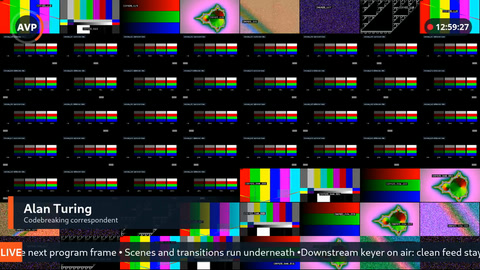
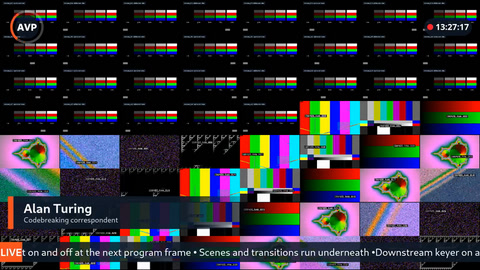
Mixer demo at 1080p30: new instance capture, figures and capacity page
The ten-second demo is recaptured on the running L4 show at 1920x1080p30:
192 inputs (105 NVDEC, 36 browser scene sources, 47 raw NV12, four
browser keys), 256 scenes, 24 outputs. Both encoded outputs were recorded
on the instance before Internet transport and replayed frame by frame in
the real control page. RTP timestamps step by exactly one frame with no
packet gap, the ticker moves four pixels on each of 299 frame pairs, and
the mixer missed no deadline during the capture (capture-20261012.json).

The capacity page is the short one from the code branch: 192 sources at
25 and at 30 fps.

diff --git a/demos/mixer/docs/index.html b/demos/mixer/docs/index.html
@@ -3,7 +3,7 @@
 <head>
   <meta charset="utf-8">
   <meta name="viewport" content="width=device-width,initial-scale=1">
-  <meta name="description" content="192 independent inputs. 256 scenes. 26 outputs. Watch the AVPlumber GPU mixer on one NVIDIA L4: two live viewers, direct cuts and four downstream graphics.">
+  <meta name="description" content="192 independent inputs. 256 scenes. 24 outputs. Watch the AVPlumber GPU mixer on one NVIDIA L4: two live viewers, direct cuts and four downstream graphics.">
   <meta name="theme-color" content="#0a0e12">
   <meta property="og:title" content="192 inputs. One live canvas. · AVPlumber">
   <meta property="og:description" content="The real mixer interface. Two viewers, direct cuts and downstream graphics, captured from a 192-input NVIDIA L4 show.">
@@ -22,14 +22,14 @@
   <main>
     <section class="hero" aria-labelledby="headline">
       <div><p class="eyebrow"><span class="signal"></span> GPU VIDEO MIXER <span class="slash">/</span> OPEN SOURCE</p><h1 id="headline"><span class="accent">192 inputs.</span><br>One live canvas.</h1></div>
-      <div class="hero-aside"><p>Video, browser pages and raw feeds.<br>Preview it. Cut it. Put graphics on air.<br>All on a single NVIDIA L4.</p><div class="spec"><span>1920 × 1080</span><span>25 FPS</span><span>SDR</span></div></div>
+      <div class="hero-aside"><p>Video, browser pages and raw feeds.<br>Preview it. Cut it. Put graphics on air.<br>All on a single NVIDIA L4.</p><div class="spec"><span>1920 × 1080</span><span>30 FPS</span><span>SDR</span></div></div>
     </section>
     <section class="demo" id="demo" aria-labelledby="demo-title">
-      <div class="demo-top"><h2 id="demo-title"><span class="signal red"></span> THE ACTUAL CONTROL SURFACE</h2><span class="capture-label">INSTANCE CAPTURE · 25 FPS <span class="slash">/</span> 09 OCT 2026</span></div>
-      <div class="screen"><video id="reel" controls muted loop playsinline preload="metadata" poster="mixer-demo-poster.jpg" aria-label="Ten-second mixer demo: two viewers, direct cuts through varied scenes and all four downstream keys enabled" aria-describedby="recording-note"><source src="https://github.com/amagimedia/avplumber/releases/download/mixer-demo-media-2026-10/mixer-192-input-demo-local.mp4" type="video/mp4"><a href="https://github.com/amagimedia/avplumber/releases/download/mixer-demo-media-2026-10/mixer-192-input-demo-local.mp4">Download the mixer demo MP4</a>.</video></div>
+      <div class="demo-top"><h2 id="demo-title"><span class="signal red"></span> THE ACTUAL CONTROL SURFACE</h2><span class="capture-label">INSTANCE CAPTURE · 30 FPS <span class="slash">/</span> 12 OCT 2026</span></div>
+      <div class="screen"><video id="reel" controls muted loop playsinline preload="metadata" poster="mixer-demo-poster.jpg" aria-label="Ten-second mixer demo: two viewers, direct cuts through varied scenes and all four downstream keys enabled" aria-describedby="recording-note"><source src="https://github.com/amagimedia/avplumber/releases/download/mixer-demo-media-2026-10/mixer-192-input-demo-1080p30.mp4" type="video/mp4"><a href="https://github.com/amagimedia/avplumber/releases/download/mixer-demo-media-2026-10/mixer-192-input-demo-1080p30.mp4">Download the mixer demo MP4</a>.</video></div>
       <div class="demo-bottom"><div class="feed-labels"><span><i class="pvw"></i> PREVIEW + PROGRAM</span><span><i class="pgm"></i> DIRTY PROGRAM + 4 DSKs</span></div><button id="replay" type="button">Replay 10s <span aria-hidden="true">↻</span></button></div>
     </section>
-    <p class="recording-note" id="recording-note">Recorded directly on the running instance before Internet transport, then replayed in the real UI with the captured state and cuts. Two outputs, four keys and a continuous 25 fps ticker. <a href="https://github.com/amagimedia/avplumber/releases/download/mixer-demo-media-2026-10/mixer-192-input-demo-local.mp4">Download UI demo ↓</a> · <a href="https://github.com/amagimedia/avplumber/releases/download/mixer-demo-media-2026-10/mixer-pgm-instance.mp4">Original full-size Program ↓</a></p>
+    <p class="recording-note" id="recording-note">Recorded directly on the running instance before Internet transport, then replayed in the real UI with the captured state and cuts. Two outputs, four keys and a continuous 30 fps ticker. <a href="https://github.com/amagimedia/avplumber/releases/download/mixer-demo-media-2026-10/mixer-192-input-demo-1080p30.mp4">Download UI demo ↓</a> · <a href="https://github.com/amagimedia/avplumber/releases/download/mixer-demo-media-2026-10/mixer-pgm-instance-1080p30.mp4">Original full-size Program ↓</a></p>
     <section class="scene-section" aria-labelledby="scene-heading">
       <div class="section-label"><h2 id="scene-heading">A different scene. One cut.</h2><span>JUMP INTO THE RECORDING</span></div>
       <div class="scene-strip">
@@ -40,16 +40,16 @@
       </div>
     </section>
     <section class="inside" id="inside" aria-labelledby="inside-title">
-      <div class="section-label"><h2 id="inside-title">Big show. Small footprint.</h2><a href="capture-20261009.json">Captured configuration ↗</a></div>
+      <div class="section-label"><h2 id="inside-title">Big show. Small footprint.</h2><a href="capture-20261012.json">Captured configuration ↗</a></div>
       <div class="numbers">
         <div><strong>192<span>IN</span></strong><p>Independent inputs<br><span>188 scene sources + 4 browser keys</span></p></div>
         <div><strong>256</strong><p>Scenes, ready to take<br><span>Grids, PiP, layers and full screen</span></p></div>
-        <div><strong>26<span>OUT</span></strong><p>Encoded outputs<br><span>Program, clean feed and 24 AUX</span></p></div>
+        <div><strong>24<span>OUT</span></strong><p>Encoded outputs<br><span>Program, clean feed and 22 AUX</span></p></div>
         <div><strong>1<span>GPU</span></strong><p>NVIDIA L4<br><span>16 vCPUs · CUarray decode</span></p></div>
       </div>
-      <div class="source-mix" role="img" aria-label="192 inputs: 120 NVDEC video decoders, 36 browser scene sources, 32 raw NV12 sources and 4 browser keys"><i class="decode"></i><i class="browser"></i><i class="raw"></i><i class="keys"></i></div>
-      <ul class="source-legend"><li><i class="decode"></i><b>120</b> NVDEC video</li><li><i class="browser"></i><b>36</b> Browser pages</li><li><i class="raw"></i><b>32</b> Raw NV12</li><li><i class="keys"></i><b>4</b> Browser keys</li></ul>
-      <p class="scope">This is the recorded 1080p25 SDR configuration. Other formats, frame rates and source mixes have their own limits. <a href="https://github.com/amagimedia/avplumber/blob/develop/demos/mixer/docs/capacity.md">Measurements and workload details ↗</a></p>
+      <div class="source-mix" role="img" aria-label="192 inputs: 105 NVDEC video decoders, 36 browser scene sources, 47 raw NV12 sources and 4 browser keys"><i class="decode"></i><i class="browser"></i><i class="raw"></i><i class="keys"></i></div>
+      <ul class="source-legend"><li><i class="decode"></i><b>105</b> NVDEC video</li><li><i class="browser"></i><b>36</b> Browser pages</li><li><i class="raw"></i><b>47</b> Raw NV12</li><li><i class="keys"></i><b>4</b> Browser keys</li></ul>
+      <p class="scope">This is the recorded 1080p30 SDR configuration. Other formats, frame rates and source mixes have their own limits. <a href="https://github.com/amagimedia/avplumber/blob/develop/demos/mixer/docs/capacity.md">Measurements and workload details ↗</a></p>
     </section>
     <section class="workflow" aria-labelledby="workflow-title">
       <div class="section-label"><h2 id="workflow-title">Keep the next shot in sight.</h2><span>ONE INTERFACE, TWO VIEWS</span></div>

diff --git a/demos/mixer/docs/demo.css b/demos/mixer/docs/demo.css
@@ -321,11 +321,11 @@ h1 {
 .keys {
   background:#cba3ee}
 .source-mix .decode {
-  flex:120}
+  flex:105}
 .source-mix .browser {
   flex:36}
 .source-mix .raw {
-  flex:32}
+  flex:47}
 .source-mix .keys {
   flex:4}
 .source-legend {

diff --git a/demos/mixer/docs/capacity.md b/demos/mixer/docs/capacity.md
@@ -1,97 +1,53 @@
-# Recorded mixer capacity
+# Mixer capacity
 
-Setup admission limits live in [instance_profiles.py](https://github.com/amagimedia/avplumber/blob/c20464a5006ea331f816a03874103173f3f234e1/demos/mixer/instance_profiles.py).
-They depend on source mix, canvas rate/format, output count and encoder preset.
-Do not scale one GPU's profile to another GPU. This page summarizes historical
-runs; raw evidence and caveats remain linked below.
+Setup admits what [instance_profiles.py](../instance_profiles.py) allows for the GPU, the canvas
+rate and format, the outputs and their encoder presets. A profile is measured on its own GPU; do
+not scale one GPU's numbers to another. All figures are 1080p inputs and include four browser keys.
 
+[Demo recording](https://amagimedia.github.io/avplumber/demos/mixer/docs/) ·
 [Source-limit cookbook](https://amagimedia.github.io/avplumber/demos/mixer/docs/cookbook/source-limits.html) ·
 [HTML cookbook](https://amagimedia.github.io/avplumber/demos/mixer/docs/cookbook/)
 
-## Current demo recording: 2026-10-09
+## NVIDIA L4, 16 vCPU: `nvidia_l4_cuarray`
 
-The [10-second UI recording](https://amagimedia.github.io/avplumber/demos/mixer/docs/)
-shows a running `nvidia_l4_cuarray` show on one NVIDIA L4 / 16-vCPU host:
-192 inputs, 256 scenes and 26 outputs at 1920×1080p25 SDR. The input total is
-120 NVDEC + 36 browser scene sources + 32 raw NV12 + four browser keys;
-Setup reports 188 catalogue sources before adding the keys. Outputs are
-Program, clean Program and 24 AUX buses, including the Program/Preview monitor
-and source multiviewer.
+25 and 30 fps carry the same 192 sources.
 
-The capture uses two WebRTC viewers, four enabled keys and direct cuts through
-several scene types. It is an interface demonstration, not a new capacity,
-latency or soak benchmark. The [capture metadata](https://amagimedia.github.io/avplumber/demos/mixer/docs/capture-20261009.json)
-records its scope; the historical qualification results below remain separate.
+| Canvas | fps | Sources | NVDEC / browser / raw | Outputs |
+| --- | ---: | ---: | --- | ---: |
+| SDR | 25 | 192 | 120 / 40 / 32 | 26 |
+| SDR | 30 | 192 | 105 / 40 / 47 | 24 |
+| SDR | 50 | 110 | 48 / 40 / 22 | 22 |
+| SDR | 60 | 99 | 40 / 40 / 19 | 22 |
+| HLG 4:2:0 | 25, 30 | 136 | 96 / 40 / 0 | 20 |
+| HLG 4:2:0 | 60 | 88 | 48 / 40 / 0 | 18 |
+| HLG 4:2:2 | 25, 30 | 132 | 88 / 40 / 4 v210 | 20 |
+| HLG 4:2:2 | 60 | 88 | 44 / 40 / 4 v210 | 17 |
 
-## T4
+256 scenes. Outputs are Program, the clean feed and AUX buses, at the default presets. At 1080p30
+the 192-source show ran ten minutes with no missed deadline on Program or on any of its 22 AUX
+buses and no AUX drop (2026-10-12): a draw takes about 3 ms of its 33 ms, the GPU is at 60 %
+and VRAM at 19.5 of 23 GB. The SDR 25 and 30 fps rows are the measured 192-source shows; the other
+rows are the profile's admission limits. The linear `nvidia_l4` profile (no CUarray decode) carries
+170 sources at 25 and 30 fps.
 
-16 GiB T4, 16 vCPUs, 1080p inputs; totals include four browser keys.
-The September 2026 tests used mostly-still browser test pages and raw uploads.
+Use the [portable L4 stack](../../../docker-compose/mixer/deploy/l4/README.md). Browser frames must
+go back to the browser one per new frame ([`ack_holdback`](../../../doc/NODES.md#ipc_dmabuf_source)),
+which the mixer sets; without it the browsers keep allocating buffers and the releases stall the show.
 
-| fps | Sources | Mix: NVDEC / browser including keys / raw |
-| ---: | ---: | --- |
-| 25 | 110 | 40 / 40 / 30 |
-| 30 | 110 | 36 / 40 / 34 |
-| 50 | 82 | 22 / 40 / 20 |
-| 60 | 75 | 18 / 40 / 17 |
+## NVIDIA T4, 16 vCPU: `tesla_t4`
 
-These are tested/declared profile baselines, not decoder-only limits. Short
-50/60 fps cut-spam checks passed; a separate 68-source 60 fps, 19.5-hour soak
-recorded 24 missed deadlines. Browser content can change CPU/GPU demand greatly.
-See [browser cost](https://amagimedia.github.io/avplumber/demos/mixer/docs/cookbook/browser-paint-cost.html), [raw uploads](https://amagimedia.github.io/avplumber/demos/mixer/docs/cookbook/raw-uploads.html)
-and [CPU pressure](https://amagimedia.github.io/avplumber/demos/mixer/docs/cookbook/cpu-pressure.html) for the measurement context.
+| Canvas | fps | Sources | NVDEC / browser / raw |
+| --- | ---: | ---: | --- |
+| SDR | 25 | 110 | 40 / 40 / 30 |
+| SDR | 30 | 110 | 36 / 40 / 34 |
+| SDR | 50 | 82 | 22 / 40 / 20 |
+| SDR | 60 | 75 | 18 / 40 / 17 |
 
-## NVENC and extra aux outputs
+## Reading the limits
 
-Every rendition, reserved clean feed and AUX consumes encoder capacity.
-Setup applies both modeled NVENC costs and measured output ceilings. Codec,
-preset, resolution and FPS affect admission; lowering bitrate does not raise
-that allowance. AUX normally runs at half rate above 30 fps. Use Setup's
-calculated limit rather than a copied table of extra-output counts.
-
-## NVIDIA L4: linear and CUarray profiles
-
-`nvidia_l4` and `nvidia_l4_cuarray` are distinct profiles. The CUarray SDR25
-profile admits 192 total sources: 120 NVDEC, 32 raw, 36 browser scene sources
-and four browser keys (188 sources in the catalogue). The linear SDR25 profile
-uses 170 total: 83 NVDEC, 47 raw and 40 browser including keys.
-
-Current SDR output ceilings are 26 at 25/30 fps and 22 at 50/60 fps, below the
-hard 30-output encoder ceiling. HLG 4:2:0 uses 20/20/18/18, and HLG 4:2:2 uses
-20/20/17/17 at 25/30/50/60 fps. These are admission rules; not every entry has a
-separate measured qualification. Read the profile comments and trial scope.
-
-The [2026-10-05 raw report](https://amagimedia.github.io/avplumber/demos/mixer/docs/capacity-l4.json) covers 1080p inputs on one L4 /
-16-vCPU host, patched FFmpeg, HEVC CUarray decode, `extra_hw_frames: 12` and
-three-frame decoded queues. Totals include keys; HDR 4:2:2 inputs use v210.
-
-| Show | Sources / scenes / outputs | Observation |
-| --- | --- | --- |
-| SDR25 | 192 / 256 / 26 | First sweep: 1 AUX drop; repeat: 0 missed deadlines / 0 drops |
-| SDR25 | 192 / 256 / 30 | 693 missed deadlines / 856 drops; failed |
-| HLG 4:2:0, 25 fps | 136 / 256 / 20 | 80-second sweep: 0 missed / 0 drops |
-| HLG 4:2:0, 60 fps | 88 / 256 / 18 | 1 missed deadline; failed zero-miss gate |
-| HLG 4:2:2, 60 fps | 88 / 128 / 17 | 30-second cut probe: 0 missed / 0 drops |
-
-The raw report retains all trials, including failed startup/rollback when 96
-HDR decoders exhausted VRAM. A balanced show passing does not qualify the same
-count of HDR decoders. Short probes do not qualify every scene or a long soak;
-30/50 fps admission values in that update were derived, not newly measured.
-
-The [CUarray cookbook](https://amagimedia.github.io/avplumber/demos/mixer/docs/cookbook/nvdec-cuarray.html) explains storage savings and
-fixed-pool sizing. Use the [portable L4 stack](https://github.com/amagimedia/avplumber/blob/develop/docker-compose/mixer/deploy/l4/README.md) for that build.
-After deployment, exercise actual content, every scene and Setup restart; check
-fresh deadline/drop counter deltas, not just encoder FPS.
-
-## Node reductions reviewed 2026-10-06
-
-For the captured 188-source catalogue plus four keys, native input pacing
-removes 152 `force_fps` nodes/queues and the guarded raw colour-tag bypass
-removes another 32. Applying those changes alone to the old 1,514-node graph
-would yield 1,330; other routing/wipe changes can affect the deployed total.
-The four pacing shards remain, now with 38 file pacers and ten browser pacers
-each rather than 86 nodes each. These are not 184 eliminated threads.
-
-The small mixed-rate GPU smoke verifies cadence, cuts and stall recovery; it
-does not qualify 188-source throughput. No admission cap was raised based on
-these node reductions. See [cadence evidence](https://github.com/amagimedia/avplumber/blob/develop/demos/mixer/docs/latency.md#native-input-cadence-check-2026-10-06).
+- Every rendition, the clean feed and every AUX bus is an encode. Codec, preset, size and rate
+  count against the NVENC allowance; bitrate does not. AUX runs at half rate above 30 fps.
+- Browser cost depends on what the pages paint; the figures use mostly still pages and four keys.
+- After a deployment, check the show itself: the control page shows deadline misses and AUX drops
+  of the last ten minutes, and `mixer.status` shows how long each bus's draws take
+  ([`playout.timing`](../../../doc/NODES.md#mixer_compositor)).

diff --git a/demos/mixer/docs/config.md b/demos/mixer/docs/config.md
@@ -1,10 +1,10 @@
 # Mixer configuration
 
-[Quick start](https://github.com/amagimedia/avplumber/blob/develop/demos/mixer/README.md) · [Example show](https://github.com/amagimedia/avplumber/blob/c20464a5006ea331f816a03874103173f3f234e1/demos/mixer/config.example.json) ·
+[Quick start](../README.md) · [Example show](../config.example.json) ·
 [HTML cookbook](https://amagimedia.github.io/avplumber/demos/mixer/docs/cookbook/)
 
 `--config mixer.json` supplies sources, scenes, canvas and outputs. `canvas`,
-`sources` and `scenes` are required. The [parser](https://github.com/amagimedia/avplumber/blob/c20464a5006ea331f816a03874103173f3f234e1/pyplumber/mixer/config.py)
+`sources` and `scenes` are required. The [parser](../../../pyplumber/mixer/config.py)
 is the validation authority; the example is the full editable starting point.
 
 Top-level `initial_scene` defaults to the first scene. `max_compositor_layers`
@@ -38,7 +38,7 @@ The program is composited once. Each rendition adds an encode. With no rendition
 | `bitrate_kbps` | `3000` | CBR target, also the `maxrate` and `bufsize` |
 | `codec` | from canvas depth | `h264_nvenc` for 8-bit or `hevc_nvenc` for 10-bit by default; applies to Janus and file targets |
 | `profile` | from codec/depth | HEVC `main`/`main10`; H.264 `baseline` for Janus, `high` for files. No B-frames |
-| `preset` | `"p7"` | NVENC quality preset. The setup page sets p1, p3 or p5 on every output it generates ([NVENC costs](https://github.com/amagimedia/avplumber/blob/develop/demos/mixer/docs/capacity.md#nvenc-and-extra-aux-outputs)) |
+| `preset` | `"p7"` | NVENC quality preset. The setup page sets p1, p3 or p5 on every output it generates ([NVENC costs](capacity.md#reading-the-limits)) |
 | `port` | — | Janus target: overrides the RTP port from the command line |
 | `color` | automatic | `sdr`, `hlg`, or `pq`; H.264 always requires SDR, HEVC otherwise inherits the canvas |
 | `feed` | `"dirty"` | `"clean"` encodes the program without the [downstream keys](#dsk); without keys both are the program |
@@ -51,7 +51,7 @@ The program is composited once. Each rendition adds an encode. With no rendition
 
 ## sources
 
-One source ID opens one decoder or browser window; scenes and aliases reuse it. Repeated locations require `independent: true` on every declaration. Browser import is provided by the [shared DMA-BUF integration](https://github.com/amagimedia/avplumber/blob/develop/doc/dmabuf.md). CUarray requires compatible FFmpeg/consumers and a fixed surface budget; it has no copy fallback or decoder auto-restart. See the [CUarray cookbook](https://amagimedia.github.io/avplumber/demos/mixer/docs/cookbook/nvdec-cuarray.html).
+One source ID opens one decoder or browser window; scenes and aliases reuse it. Repeated locations require `independent: true` on every declaration. Browser import is provided by the [shared DMA-BUF integration](../../../doc/dmabuf.md). CUarray requires compatible FFmpeg/consumers and a fixed surface budget; it has no copy fallback or decoder auto-restart. See the [CUarray cookbook](https://amagimedia.github.io/avplumber/demos/mixer/docs/cookbook/nvdec-cuarray.html).
 
 | field | applies to | meaning |
 | --- | --- | --- |
@@ -123,10 +123,11 @@ Up to four browser keys over the finished program. `feed: "clean"` omits them. K
 | `source` | — | a **browser** source id; its alpha is always kept. Scenes may use the same source |
 | `dst` | whole canvas | `x`, `y`, `w`, `h` on the canvas; the window is scaled into it |
 | `on` | `false` | on air at start |
+| `bounded` | `false` | compose only this key's rectangle instead of the whole canvas, while every key on air is `bounded`; for a key that fills a known part of the picture, such as a lower third |
 
 ## aux_buses
 
-Each bus has an `id`, layouts, scene assignments and Janus renditions (`port`, optional `codec`, `preset`, `bitrate_kbps`). It reuses source frames and drops output rather than blocking Program. SDR only; half canvas rate above 30 fps unless `full_rate`. Commands: `mixer.aux_layout`, `mixer.aux`, `mixer.aux_page`, `mixer.aux_status`. Assignment updates include the current `expected_revision`. Layout changes stage new sources; status exposes `composition_pending` and `composition_error`. See [timing details](https://github.com/amagimedia/avplumber/blob/develop/doc/mixer.md#aux-bus-follower).
+Each bus has an `id`, layouts, scene assignments and Janus renditions (`port`, optional `codec`, `preset`, `bitrate_kbps`). It reuses source frames and drops output rather than blocking Program. SDR only; half canvas rate above 30 fps unless `full_rate`. Commands: `mixer.aux_layout`, `mixer.aux`, `mixer.aux_page`, `mixer.aux_status`. Assignment updates include the current `expected_revision`. Layout changes stage new sources; status exposes `composition_pending` and `composition_error`. See [timing details](../../../doc/mixer.md#aux-bus-follower).
 
 | role | draws |
 | --- | --- |
@@ -176,14 +177,14 @@ More than 193 pads and runtime source addition are not supported.
 
 ## Generating one
 
-[make_config.py](https://github.com/amagimedia/avplumber/blob/c20464a5006ea331f816a03874103173f3f234e1/pyplumber/mixer/tools/make_config.py) emits the built-in layouts as JSON:
+[make_config.py](../../../pyplumber/mixer/tools/make_config.py) emits the built-in layouts as JSON:
 
 ```sh
 python3 -m pyplumber.mixer.tools.make_config --fps 30 cam0=/media/camera.mp4 > mixer.json
 ```
 
-For generated workloads use a [recipe](https://github.com/amagimedia/avplumber/blob/develop/demos/mixer/docs/recipe.md). Other mixer applications use
-`pyplumber.mixer.build_application` directly; see the [base API](https://github.com/amagimedia/avplumber/blob/develop/doc/mixer.md).
+For generated workloads use a [recipe](recipe.md). Other mixer applications use
+`pyplumber.mixer.build_application` directly; see the [base API](../../../doc/mixer.md).
 
 ## Input cadence and colour-tag guarantees
 
@@ -204,5 +205,5 @@ that promise. Real colour conversion and alpha processing remain. A source
 `process_source` callback disables automatic eligibility.
 
 The library's `color_tagged` source contract is not a request to infer colour
-from content. See [the mixer API](https://github.com/amagimedia/avplumber/blob/develop/doc/mixer.md#pacing-loops-and-redundant-colour-tags)
+from content. See [the mixer API](../../../doc/mixer.md#pacing-loops-and-redundant-colour-tags)
 when integrating custom inputs in another repository.

diff --git a/demos/mixer/docs/recipe.md b/demos/mixer/docs/recipe.md
@@ -1,6 +1,6 @@
 # Demo recipes
 
-A recipe generates test media and a [mixer show](https://github.com/amagimedia/avplumber/blob/develop/demos/mixer/docs/config.md). Setup handles this
+A recipe generates test media and a [mixer show](config.md). Setup handles this
 automatically; for manual preparation on the NVIDIA host:
 
 ```sh
@@ -20,22 +20,22 @@ NumPy and FFmpeg with NVENC. `--runtime-media-dir /media` writes container paths
 | `inputs[].weight` | Relative share of sources; zero disables the entry |
 | `layouts` | Layout names and relative shares of scenes |
 | `seed` | Reproduces scene selection and geometry |
-| `canvas` | Dimensions, rate, format and color; see [config](https://github.com/amagimedia/avplumber/blob/develop/demos/mixer/docs/config.md#canvas) |
+| `canvas` | Dimensions, rate, format and color; see [config](config.md#canvas) |
 | `generation` | `seconds` (default 2), optional source `width` and `height` |
 | `alpha_background` | Allocated video source used behind transparent pages |
 | `renditions`, `clean_rendition`, `aux_buses`, `dsk` | Output/key settings copied into the show |
-| `browser_ring_size` | Outstanding frames per browser: 1–64; default 6 at 25/30 fps, otherwise 9 |
+| `browser_ring_size` | Frames a browser may have out in the mixer at once, not a set of buffers: 1–64; default 6 at 25/30 fps, otherwise 9. The buffers are Chromium's; the mixer returns them one per new frame and opens the window with up to three more for those waiting returns (9 in all) |
 
 Largest-remainder rounding makes the weighted allocations sum to the total;
 ties follow recipe order. Weights summing to `source_count` give exact counts.
 The graph accepts 193 sources, or 192 with an AUX program pad. Setup also
-applies the selected [instance profile](https://github.com/amagimedia/avplumber/blob/c20464a5006ea331f816a03874103173f3f234e1/demos/mixer/instance_profiles.py).
+applies the selected [instance profile](../instance_profiles.py).
 
 ## Example presets
 
-- [demo.example.json](https://github.com/amagimedia/avplumber/blob/c20464a5006ea331f816a03874103173f3f234e1/demos/mixer/demo.example.json): generated video, no browsers.
-- [demo.equal.json](https://github.com/amagimedia/avplumber/blob/c20464a5006ea331f816a03874103173f3f234e1/demos/mixer/demo.equal.json): video and browser sources with equal weights.
-- [demo.browser-alpha.json](https://github.com/amagimedia/avplumber/blob/c20464a5006ea331f816a03874103173f3f234e1/demos/mixer/demo.browser-alpha.json): transparent overlay checks.
+- [demo.example.json](../demo.example.json): generated video, no browsers.
+- [demo.equal.json](../demo.equal.json): video and browser sources with equal weights.
+- [demo.browser-alpha.json](../demo.browser-alpha.json): transparent overlay checks.
 
 Copy a preset to `media/demo.json`, edit it, then restart the Compose mixer.
 Disable `alpha_overlay` layouts if there are no browser inputs; remove
@@ -55,7 +55,7 @@ Every entry has an `id`, `kind` and `weight`.
 Generated 4:2:0 media defaults to H.264 for SDR and HEVC for HLG. Set `codec`
 to select encoded storage, or `storage: "nv12"` / `"p010"` for raw uploads.
 Generated 4:2:2 uses v210. Encoded entries may select `decode_storage: "cuarray"`
-and `extra_hw_frames`; see [decoder requirements](https://github.com/amagimedia/avplumber/blob/develop/demos/mixer/docs/config.md#sources).
+and `extra_hw_frames`; see [decoder requirements](config.md#sources).
 
 ## Generated media
 
@@ -81,8 +81,8 @@ for workload rules and implementation notes.
 
 The balanced capacity recipe generates a show at its chosen canvas rate. It
 does not by itself test a mixture of native source rates. Use
-[the mixed-rate smoke](https://github.com/amagimedia/avplumber/blob/c20464a5006ea331f816a03874103173f3f234e1/tests/cuda/smoke_mixed_fps.py) on an NVIDIA host
+[the mixed-rate smoke](../../../tests/cuda/smoke_mixed_fps.py) on an NVIDIA host
 for that check, and keep its small barcoded fixture separate from full-resolution
 capacity results. Generated source counts include reserved browser keys when
-comparing them with profile totals; the 192-source CUarray SDR25 profile has
+comparing them with profile totals; the 192-source CUarray profile has
 188 catalogue sources plus four keys.
